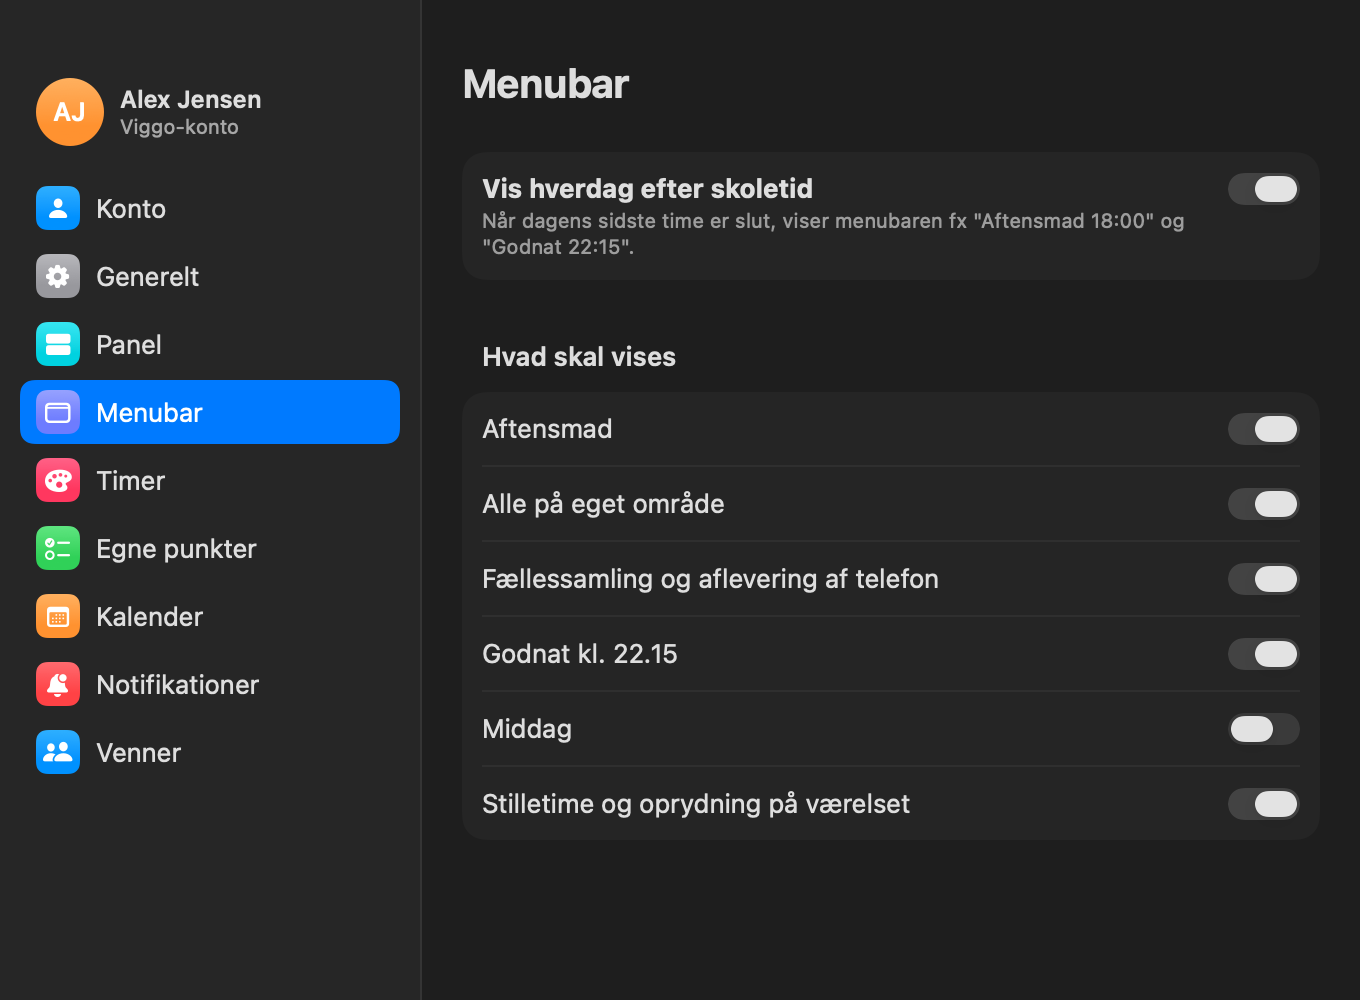
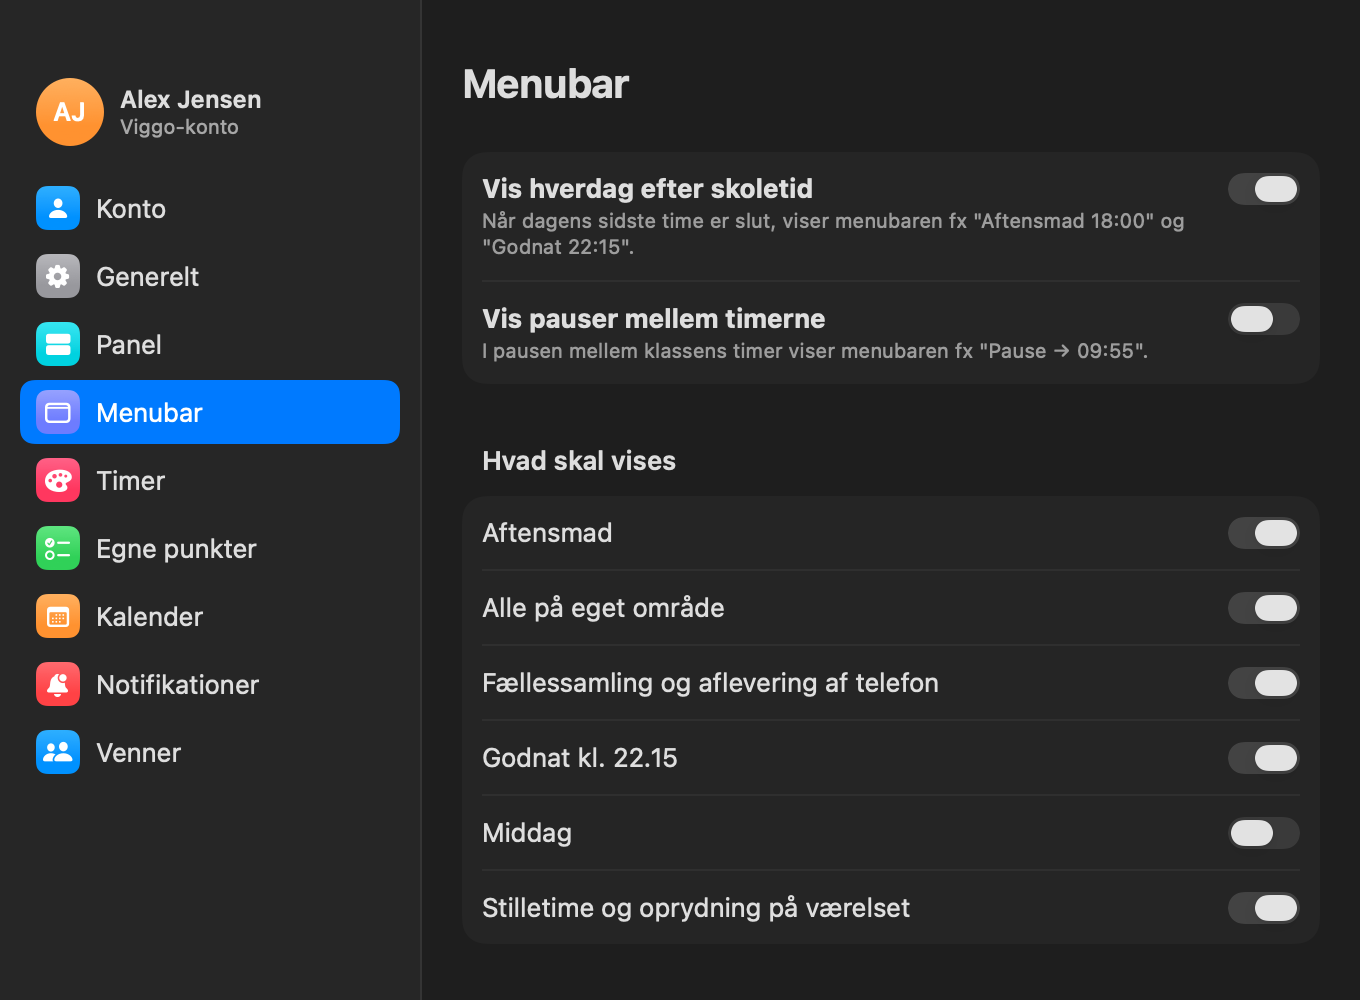
Pauser i menubaren som valgfri indstilling

diff --git a/Sources/Prefs.swift b/Sources/Prefs.swift
@@ -38,6 +38,7 @@ final class Prefs: ObservableObject {
     @Published var lessonNames: [String: String] { didSet { d.set(lessonNames, forKey: "lessonNames") } }
     @Published var lessonColors: [String: String] { didSet { d.set(lessonColors, forKey: "lessonColors") } }
     @Published var panelBreaks: Bool { didSet { d.set(panelBreaks, forKey: "panelBreaks") } }
+    @Published var menubarBreaks: Bool { didSet { d.set(menubarBreaks, forKey: "menubarBreaks") } }
     @Published var panelLunch: Bool { didSet { d.set(panelLunch, forKey: "panelLunch") } }
     @Published var customItems: [CustomItem] { didSet { d.set(try? JSONEncoder().encode(customItems), forKey: "customItems") } }
     @Published var dismissedVersion: String { didSet { d.set(dismissedVersion, forKey: "dismissedVersion") } }
@@ -61,7 +62,7 @@ final class Prefs: ObservableObject {
 
     private init() {
         d.register(defaults: [
-            "panelBirthdays": true, "panelLunch": true, "panelBreaks": true, "notifyBirthdays": true, "hotkeyEnabled": true, "panelFriendsNow": true, "notifyBulletin": true, "panelBulletin": false, "autoUpdate": true, "hotkeyChoice": 0, "dismissedVersion": "", "menubarBadge": true, "panelHomeworkTick": true, "friendsFreeTogether": true, "focusEnabled": false, "focusOnShortcut": "Viggo Fokus til", "focusOffShortcut": "Viggo Fokus fra", "panelNow": true, "panelTimeline": true, "panelTomorrow": true, "panelDuty": false, "panelHomework": true, "panelMessages": false, "panelHidePast": true, "panelLarge": false, "panelMsgCount": 3, "imported": false, "importSchedule": true, "importHomework": true,
+            "panelBirthdays": true, "panelLunch": true, "panelBreaks": true, "menubarBreaks": false, "notifyBirthdays": true, "hotkeyEnabled": true, "panelFriendsNow": true, "notifyBulletin": true, "panelBulletin": false, "autoUpdate": true, "hotkeyChoice": 0, "dismissedVersion": "", "menubarBadge": true, "panelHomeworkTick": true, "friendsFreeTogether": true, "focusEnabled": false, "focusOnShortcut": "Viggo Fokus til", "focusOffShortcut": "Viggo Fokus fra", "panelNow": true, "panelTimeline": true, "panelTomorrow": true, "panelDuty": false, "panelHomework": true, "panelMessages": false, "panelHidePast": true, "panelLarge": false, "panelMsgCount": 3, "imported": false, "importSchedule": true, "importHomework": true,
             "importEvents": true, "menubarRoutine": true, "showBirthdays": false, "includedRoutines": [String](),
             "lessonAlarmMinutes": 10, "homeworkAlarm": true, "notifyChanges": true,
             "notifyHomework": true, "notifyMessages": true, "briefs": true,
@@ -95,6 +96,7 @@ final class Prefs: ObservableObject {
         lessonColors = d.dictionary(forKey: "lessonColors") as? [String: String] ?? [:]
         panelLunch = d.bool(forKey: "panelLunch")
         panelBreaks = d.bool(forKey: "panelBreaks")
+        menubarBreaks = d.bool(forKey: "menubarBreaks")
         customItems = d.data(forKey: "customItems").flatMap { try? JSONDecoder().decode([CustomItem].self, from: $0) } ?? []
         dismissedVersion = d.string(forKey: "dismissedVersion") ?? ""
         imported = d.bool(forKey: "imported")

diff --git a/Sources/AppState.swift b/Sources/AppState.swift
@@ -89,6 +89,14 @@ final class AppState: ObservableObject {
                 await sync()
                 for e in timeline(Date()) { print("[dag] \(DateUtil.hm(e.start))-\(DateUtil.hm(e.end)) \(e.kind.rawValue) \(e.shortTitle)") }
                 print("[menubar] \(menuTitle)")
+                // --at 09:40 prints the menubar text at that time today.
+                if let i = CommandLine.arguments.firstIndex(of: "--at"), i + 1 < CommandLine.arguments.count {
+                    let hm = CommandLine.arguments[i + 1].split(separator: ":").compactMap { Int($0) }
+                    if hm.count == 2, let t = DateUtil.cal.date(bySettingHour: hm[0], minute: hm[1], second: 0, of: Date()) {
+                        tick = t
+                        print("[menubar \(CommandLine.arguments[i + 1])] \(menuTitle)")
+                    }
+                }
                 exit(0)
             }
         } else if CommandLine.arguments.contains("--friend-autologin-test") {
@@ -553,8 +561,8 @@ final class AppState: ObservableObject {
 
     /// Breaks between class lessons ("104 Tysk", "104 Dansk"), not between electives or line subjects.
     /// A gap of up to 30 minutes with nothing else in it counts as a break.
-    func breaks(_ day: Date, from list: [ViggoEvent]? = nil) -> [ViggoEvent] {
-        guard prefs.panelBreaks else { return [] }
+    func breaks(_ day: Date, from list: [ViggoEvent]? = nil, menubar: Bool = false) -> [ViggoEvent] {
+        guard menubar ? prefs.menubarBreaks : prefs.panelBreaks else { return [] }
         let todays = (list ?? events).filter { DateUtil.cal.isDate($0.start, inSameDayAs: day) && $0.kind != .duty && $0.kind != .birthday }
         let classes = todays.filter { $0.kind == .lesson && $0.rawName.firstMatch("^\\d+\\s") != nil }
             .sorted { $0.start < $1.start }
@@ -665,7 +673,7 @@ final class AppState: ObservableObject {
 
     var menuTitle: String {
         let now = tick
-        let today = (items(on: now).filter { $0.kind == .lesson || $0.kind == .event } + lunch(now) + customEvents(on: now))
+        let today = (items(on: now).filter { $0.kind == .lesson || $0.kind == .event } + lunch(now) + breaks(now, menubar: true) + customEvents(on: now))
             .sorted { $0.start < $1.start }
         if let cur = today.first(where: { $0.start <= now && $0.end > now }) {
             return "\(cur.menuBarTitle) → \(DateUtil.hm(cur.end))"

diff --git a/Sources/Views.swift b/Sources/Views.swift
@@ -822,6 +822,14 @@ struct MenubarTab: View {
                     }
                 }
                 .toggleStyle(.switch)
+                Toggle(isOn: $p.menubarBreaks) {
+                    VStack(alignment: .leading, spacing: 2) {
+                        Text("Vis pauser mellem timerne").font(.headline)
+                        Text("I pausen mellem klassens timer viser menubaren fx \"Pause → 09:55\".")
+                            .font(.caption).foregroundStyle(.secondary)
+                    }
+                }
+                .toggleStyle(.switch)
             }
             Section("Hvad skal vises") {
                 if state.routineTitles.isEmpty {

diff --git a/CHANGELOG.md b/CHANGELOG.md
@@ -3,7 +3,7 @@
 ## 1.5.0 (2026-11-09)
 
 - **Middag mellem timerne**: middagen fra dit Viggo-skema står nu i panelet mellem timerne og i menubaren, ligesom på Viggo. Kan slås fra under Indstillinger › Panel.
-- **Pauser mellem timerne**: pauserne mellem klassens timer står i panelet og uge-overblikket (ikke ved valgfag og linjefag). Kan slås fra under Indstillinger › Panel.
+- **Pauser mellem timerne**: pauserne mellem klassens timer står i panelet og uge-overblikket (ikke ved valgfag og linjefag). Kan slås fra under Indstillinger › Panel. Under Indstillinger › Menubar kan du også få pausen vist i menubaren, fx "Pause → 09:55".
 - **Uge-overblikket** viser også middag og pauser (grå) og dine egne punkter (grønne).
 - **Egne punkter**: tilføj frokost, træning, lektier og andet under Indstillinger › Egne punkter, med tidspunkt og hvilke dage. De står i panelet med en grøn streg og i menubaren, fx "Frokost 12:00".
 - **Små animationer**: lektier hopper når du krydser af, minutterne ruller på Nu-kortet, ringen glider hen til den ven du vælger, og dagen tones ind. Synk-pilen drejer mens den henter, og knapperne giver lidt efter når du trykker.
